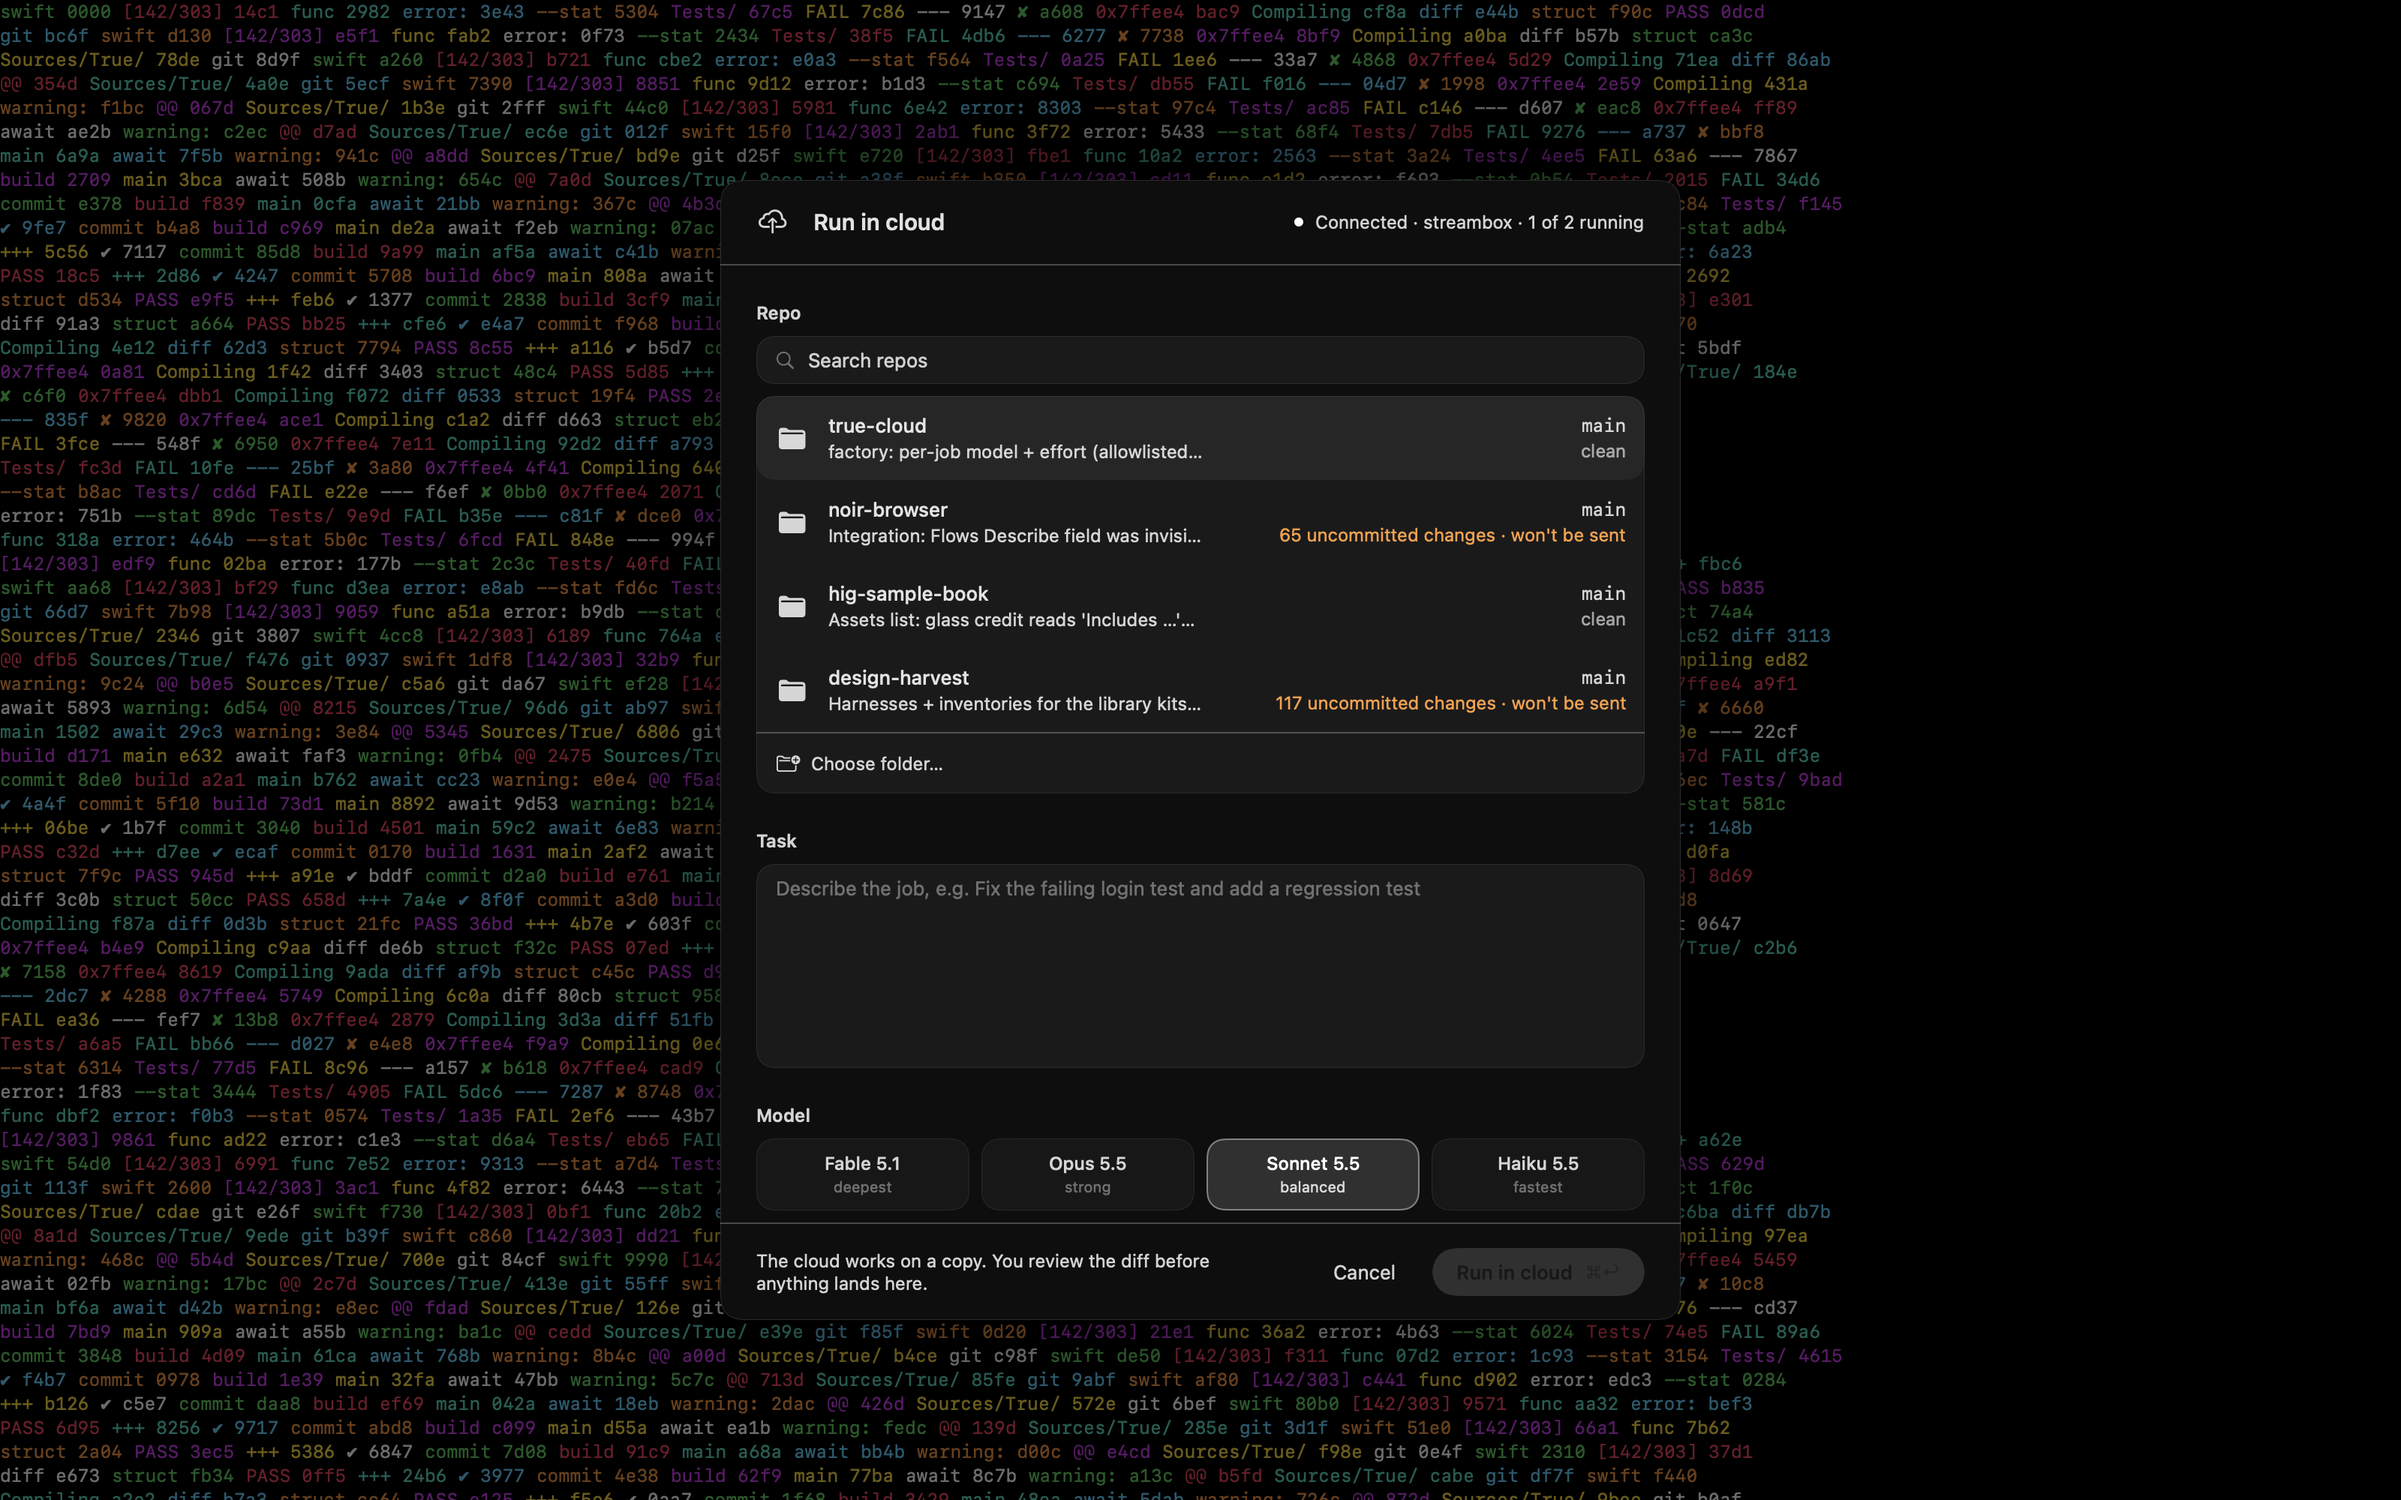
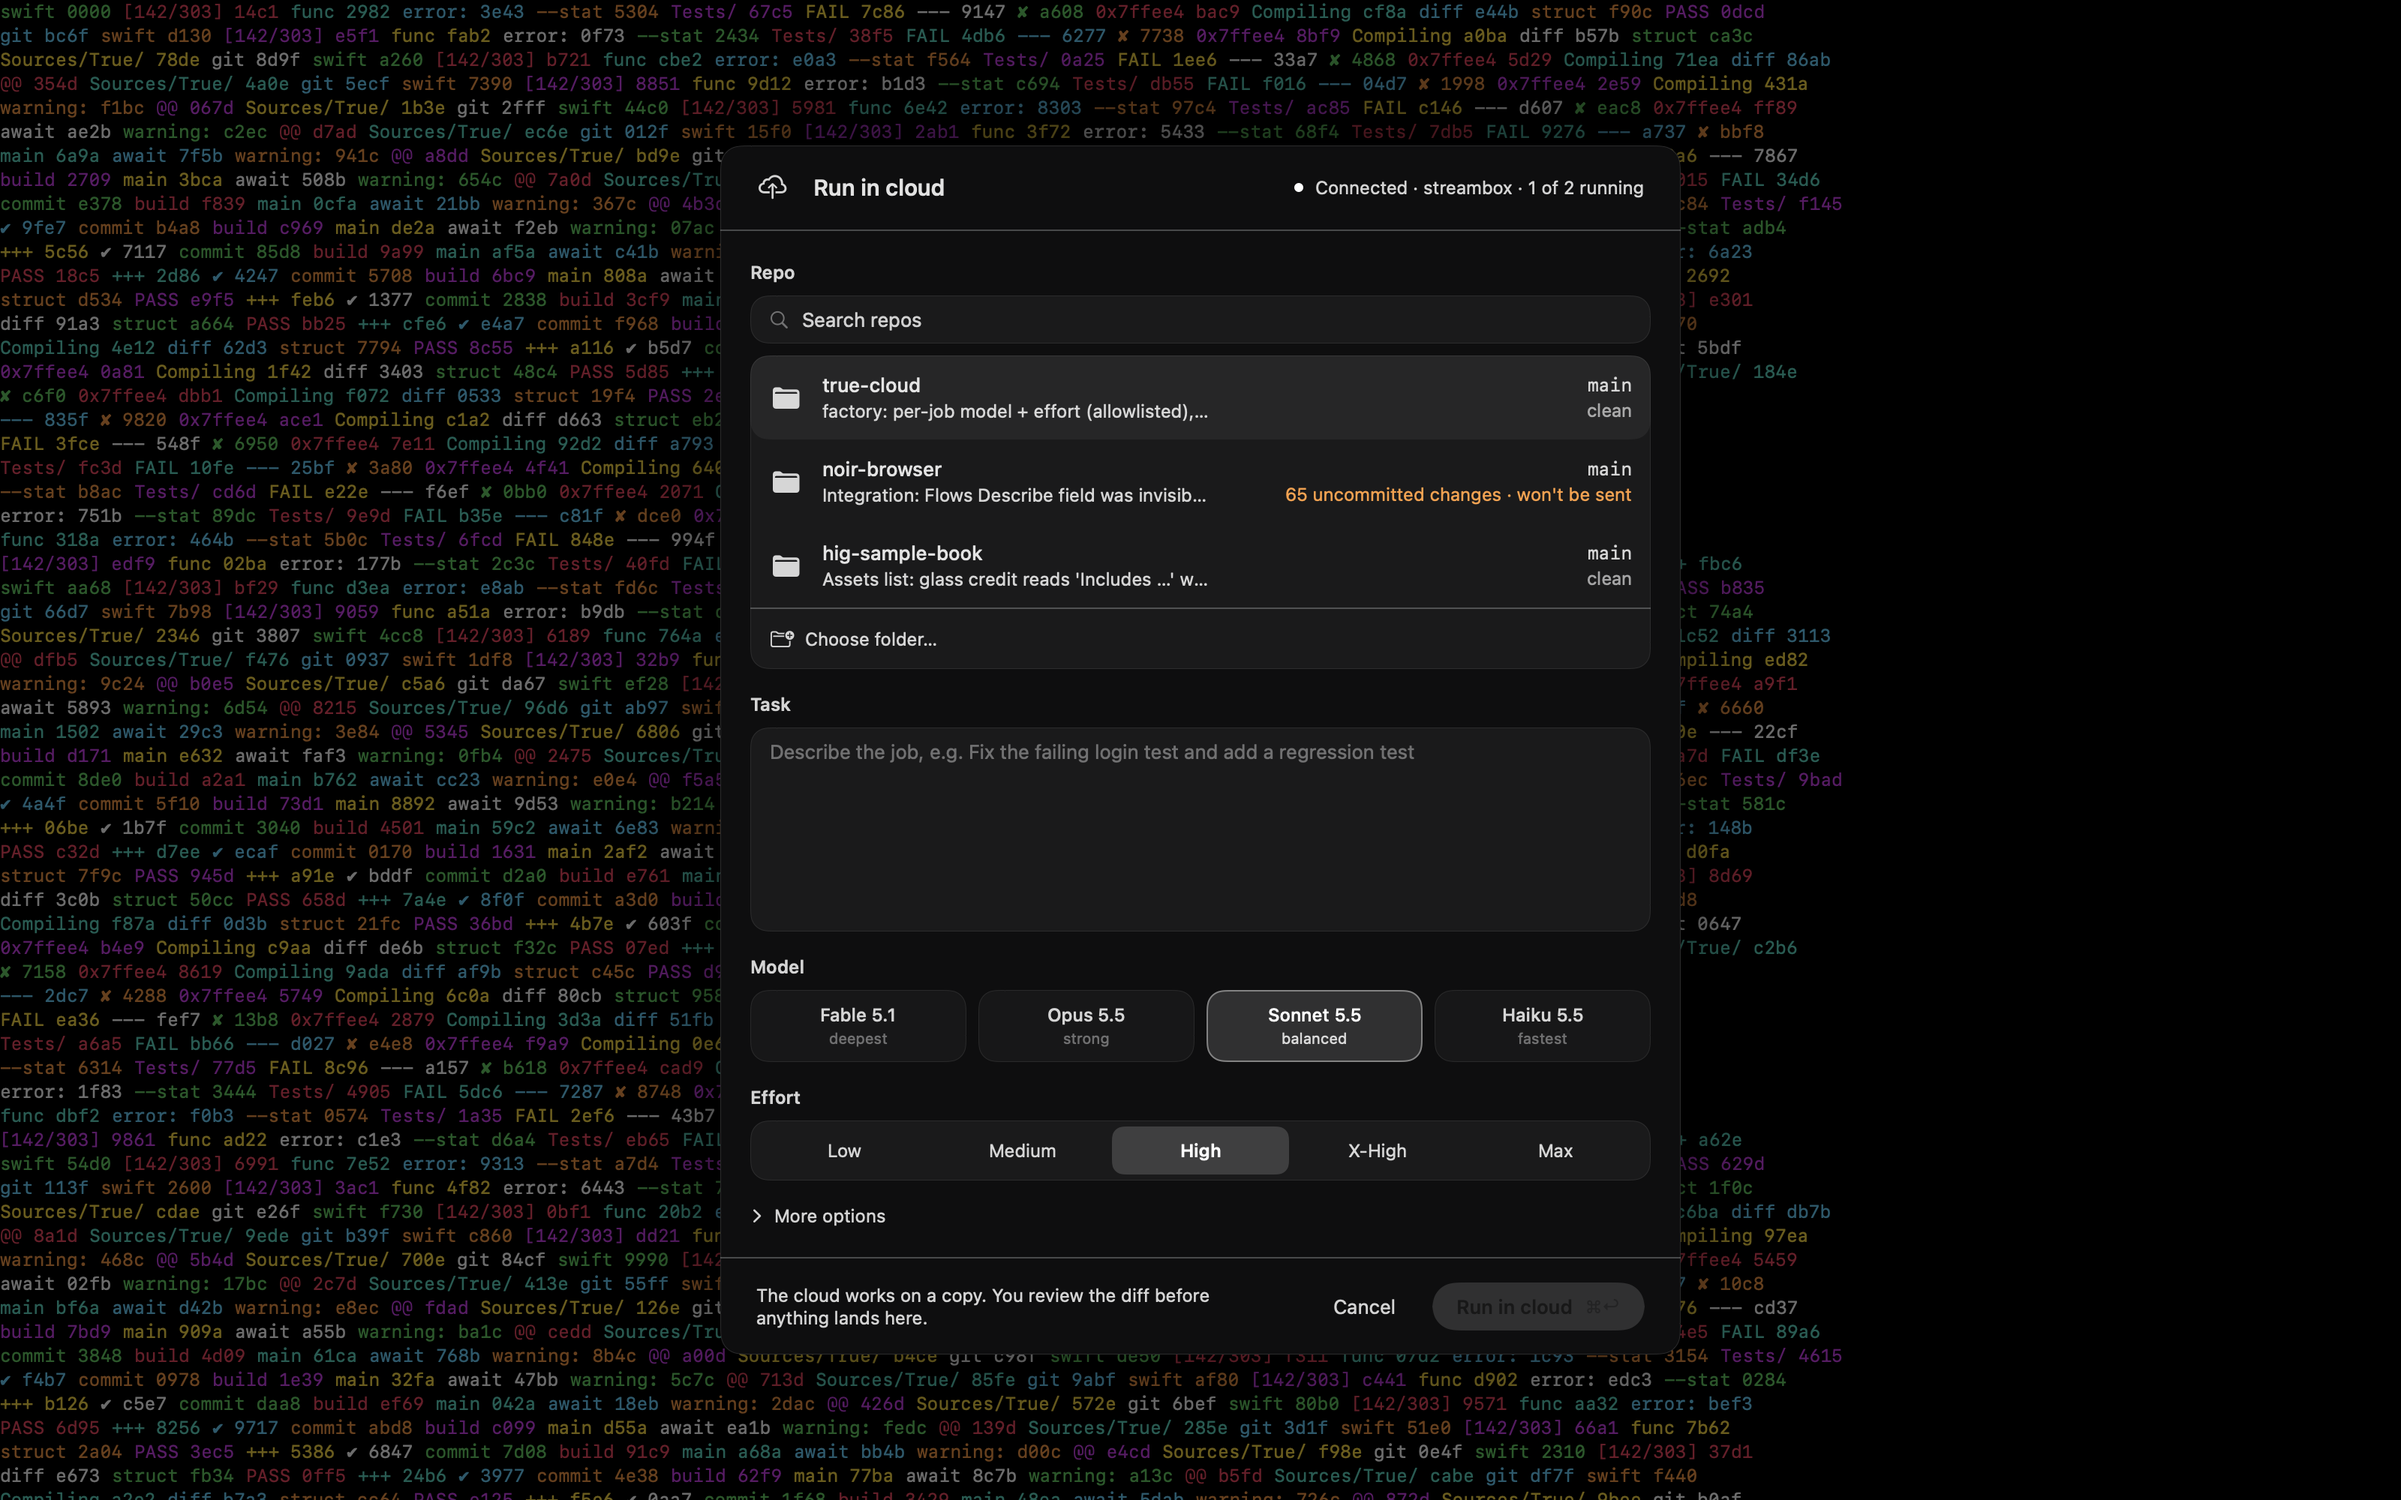
Cloud composer: tighter layout so card fits; refresh proofs

diff --git a/Sources/True/Cloud/CloudComposerView.swift b/Sources/True/Cloud/CloudComposerView.swift
@@ -66,14 +66,14 @@ struct CloudComposerContent: View {
             header
             Divider().overlay(Theme.hairline)
             ScrollView {
-                VStack(alignment: .leading, spacing: 24) {
+                VStack(alignment: .leading, spacing: 16) {
                     repoSection
                     taskSection
                     modelSection
                     effortSection
                     moreSection
                 }
-                .padding(24)
+                .padding(20)
                 .disabled(model.isSending)
             }
             .scrollIndicators(.hidden)
@@ -82,7 +82,7 @@ struct CloudComposerContent: View {
         }
         .background(Self.base)
         .foregroundStyle(Theme.text)
-        .frame(maxHeight: 760)
+        .frame(maxHeight: 840)
         .fixedSize(horizontal: false, vertical: true)
     }
 
@@ -164,7 +164,7 @@ struct CloudComposerContent: View {
                             }
                         }
                         .scrollIndicators(.hidden)
-                        .frame(maxHeight: 4 * 56)
+                        .frame(maxHeight: 3 * 56)
                         .onChange(of: model.cursor) { _, c in if list.indices.contains(c) { proxy.scrollTo(list[c].id) } }
                     }
                 }
